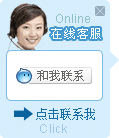
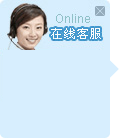
css

diff --git a/css/fx_rightBtn.css b/css/fx_rightBtn.css
@@ -6,7 +6,11 @@
 	.fx_rightBtn .btnList .item .icon{width: 37px; height: 37px; display: block;margin: 0 auto;background: url(../images/icon-05.png) no-repeat 0 0/100% 100%;box-shadow: 0 0 5px rgba(150, 150, 150, 0.1);}
 	
 	.fx_rightBtn .btnList .item .contInfor{position: absolute; top: 50%;right: 40px;transform: translateY(-50%);padding-right: 10px; display: none;}
-	.fx_rightBtn .btnList .item .contInfor .kefubox{margin-right: -10px; display: block;}
+	
+	.fx_rightBtn .kefuPhoto{width: 119px; height: 138px; display: block;}
+	.fx_rightBtn .kefuBtn{ position: absolute; top: 58px; left: 8%; width: 75%; display: block;  height: 30px; line-height: 30px;background-image: linear-gradient(to bottom, #37b9f0 , #2187de);border-radius: 3px;text-align: center; color: #FFF;}
+	.fx_rightBtn .kefuBtn.kefuTwo{ top:95px;}
+	.fx_rightBtn .kefuBtn:hover{background: #0071c5;}
 	
 	.fx_rightBtn .twoPhone{padding: 10px 15px; background: #54afef;border-radius: 5px; width: 175px;box-sizing: border-box;position: relative;}
 	.fx_rightBtn .twoPhone:before{content: '';position: absolute;top:50%;transform: translateY(-50%);right:-10px;width:0;height:0;border-top:10px solid transparent;border-bottom:10px solid transparent;border-left:10px solid #54afef;}

diff --git a/index.html b/index.html
@@ -128,10 +128,12 @@
 				<div class="btnList">
 					<div class="item">
 						<span class="icon iconOne"></span>
-						<div class="contInfor">
-							<a class="kefubox" target="_blank" href="http://wpa.qq.com/msgrd?v=3&uin=125192878&site=qq&menu=yes">
-								<img style="width: 119px; height: 138px; display: block;" src="images/product_center-img2.png" >
-							</a>
+						<div class="contInfor" style="padding-right: 0;">
+							<div class="pr">
+								<img class="kefuPhoto" src="images/product_center-img2.png" >
+								<a class="kefuBtn" target="_blank" href="http://wpa.qq.com/msgrd?v=3&uin=125192878&site=qq&menu=yes">客服一</a>
+								<a class="kefuBtn kefuTwo" href="#">客服二</a>
+							</div>
 						</div>
 					</div>
 					<div class="item">

diff --git a/caseList.html b/caseList.html
@@ -98,10 +98,12 @@
 				<div class="btnList">
 					<div class="item">
 						<span class="icon iconOne"></span>
-						<div class="contInfor">
-							<a class="kefubox" target="_blank" href="http://wpa.qq.com/msgrd?v=3&uin=125192878&site=qq&menu=yes">
-								<img style="width: 119px; height: 138px; display: block;" src="images/product_center-img2.png" >
-							</a>
+						<div class="contInfor" style="padding-right: 0;">
+							<div class="pr">
+								<img class="kefuPhoto" src="images/product_center-img2.png" >
+								<a class="kefuBtn" target="_blank" href="http://wpa.qq.com/msgrd?v=3&uin=125192878&site=qq&menu=yes">客服一</a>
+								<a class="kefuBtn kefuTwo" href="#">客服二</a>
+							</div>
 						</div>
 					</div>
 					<div class="item">

diff --git a/proCenter.html b/proCenter.html
@@ -69,10 +69,12 @@
 				<div class="btnList">
 					<div class="item">
 						<span class="icon iconOne"></span>
-						<div class="contInfor">
-							<a class="kefubox" target="_blank" href="http://wpa.qq.com/msgrd?v=3&uin=125192878&site=qq&menu=yes">
-								<img style="width: 119px; height: 138px; display: block;" src="images/product_center-img2.png" >
-							</a>
+						<div class="contInfor" style="padding-right: 0;">
+							<div class="pr">
+								<img class="kefuPhoto" src="images/product_center-img2.png" >
+								<a class="kefuBtn" target="_blank" href="http://wpa.qq.com/msgrd?v=3&uin=125192878&site=qq&menu=yes">客服一</a>
+								<a class="kefuBtn kefuTwo" href="#">客服二</a>
+							</div>
 						</div>
 					</div>
 					<div class="item">
